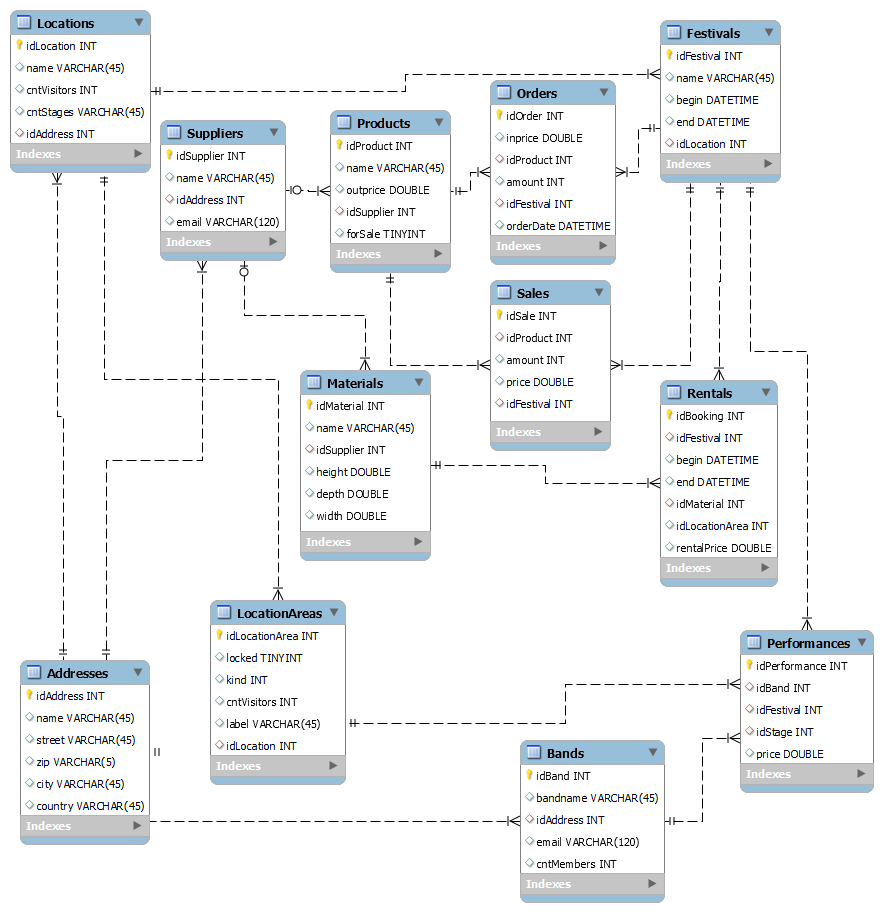
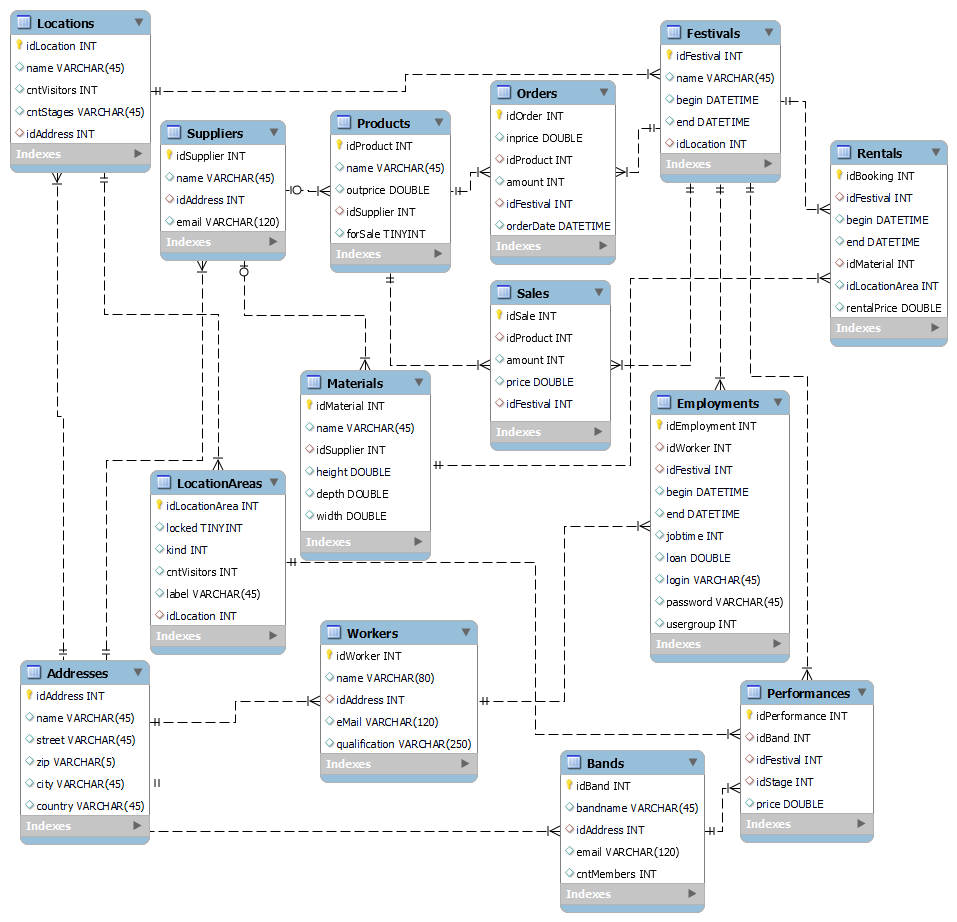
dataschema updated
Workers and Employments added

diff --git a/prototype/data/dataScheme.js b/prototype/data/dataScheme.js
@@ -66,37 +66,6 @@ const dataScheme=
 			}
 		}
 	},
-	festivals:
-	{
-		primarykey:
-		{
-			idFestival:"int"
-		},
-		columns:
-		{
-			name:
-			{
-				type:"varchar",
-				length:45
-			},
-			begin:
-			{
-				type:"datetime"
-			},
-			end:
-			{
-				type:"datetime"
-			}
-		},
-		foreignkeys:
-		{
-			idLocation:
-			{
-				table:"Locations",
-				column:"idLocation"
-			}
-		}
-	},
 	locationAreas:
 	{
 		primarykey:
@@ -141,6 +110,134 @@ const dataScheme=
 			{
 				table:"Locations",
 				column:"idLocation"
+			}
+		}
+	},
+	festivals:
+	{
+		primarykey:
+		{
+			idFestival:"int"
+		},
+		columns:
+		{
+			name:
+			{
+				type:"varchar",
+				length:45
+			},
+			begin:
+			{
+				type:"datetime"
+			},
+			end:
+			{
+				type:"datetime"
+			}
+		},
+		foreignkeys:
+		{
+			idLocation:
+			{
+				table:"Locations",
+				column:"idLocation"
+			}
+		}
+	},
+	workers:
+	{
+		primarykey:
+		{
+			idWorker:"int"
+		},
+		columns:
+		{
+			name:
+			{
+				type:"varchar",
+				length:80
+			},
+			email:
+			{
+				type:"varchar",
+				length:120
+			},
+			qualification:
+			{
+				type:"varchar",
+				length:120
+			}				
+		},
+		foreignkeys:
+		{
+			idAddress:
+			{
+				table:"Addresses",
+				column:"idAddress"
+			}
+		}
+	},
+	employments:
+	{
+		primarykey:
+		{
+			idEmployment:"int"
+		},
+		columns:
+		{
+			begin:
+			{
+				type:"datetime"
+			},
+			end:
+			{
+				type:"datetime"
+			},
+			jobtime:
+			{
+				type:"int"
+			},
+			loan:
+			{
+				type:"int"
+			},
+			login:
+			{
+				type:"varchar",
+				length:45
+			},
+			password:
+			{
+				type:"varchar",
+				length:45
+			},
+			usergroup:
+			{
+				type:"int",
+				choice:
+				{
+					1:"developer",
+					2:"agency",
+					3:"manager",
+					4:"conductor",
+					5:"catering",
+					6:"stage",
+					7:"security",
+					8:"tickets"
+				}
+			}
+		},
+		foreignkeys:
+		{
+			idWorker:
+			{
+				table:"Workers",
+				column:"idWorker"
+			},
+			idFestival:
+			{
+				table:"Festivals",
+				column:"idFestival"
 			}
 		}
 	},
